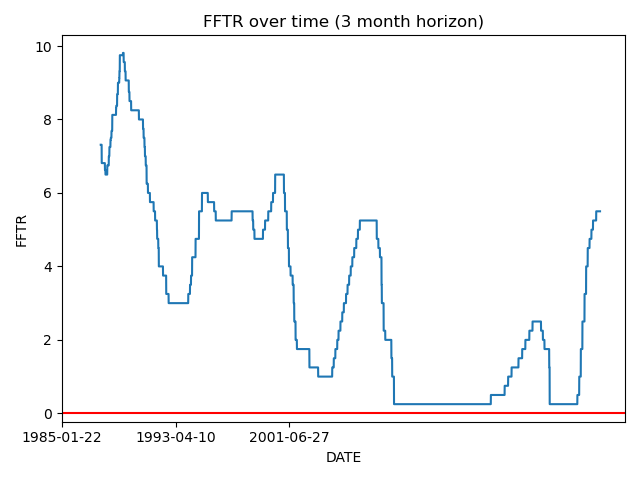
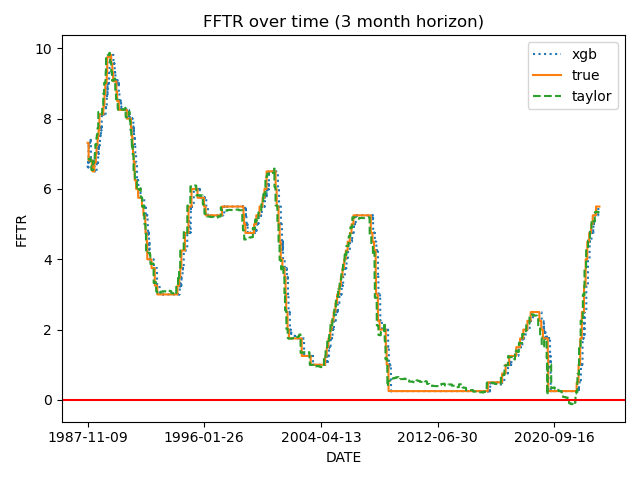
finished

diff --git a/README.md b/README.md
@@ -3,3 +3,22 @@ Structure of this repo:
 notebooks folder contains all jupyter notebooks, final notebook summarizes all of the work done and should be read first.
 images folder contains saved visualization files
 data folder contains all data files
+
+# Overview
+In the fields of finance and macroeconomics the Federal Funds Target Rate (FFTR) is one of the most studied and important indicators of the state of 
+the US economy. While there have been sucessful models of how the FFTR should move in the past using machine learning, they are outdated and do not 
+account for special circumstances in the economy that arose following the 2008 financial crisis and the 2020 covid pandemic. In this notebook I will 
+outline 2 main models that have the ability to predict changes in the FFTR months in advance with high accuracy. I will compare these models to 
+models based on conventional macroeconomic knowledge to show that there is more that goes into the decision to change the FFTR than classic theory 
+suggests.
+
+# Business Question
+How well can we predict changes in the Federal Funds Target Rate (FFTR) using past performance and macroeconomic indicators?
+
+# Data Sources
+The data used in this project was sourced from FRED (Federal Reserve Economic Database) which is maintained by the Federal Reserve Bank of St. 
+Louis. The API requests used to gather the data can be seen in the pipeline construction notebook. Feature inclusions and preprocessing can be seen 
+in the EDA_Cleaning notebook.
+
+# Results
+The best model (gradient boosted trees) was able to predict the FFTR 3 months out with a RMSE of .048, MAE of .0112, r2 of 99.967, and MAPE of .005.
